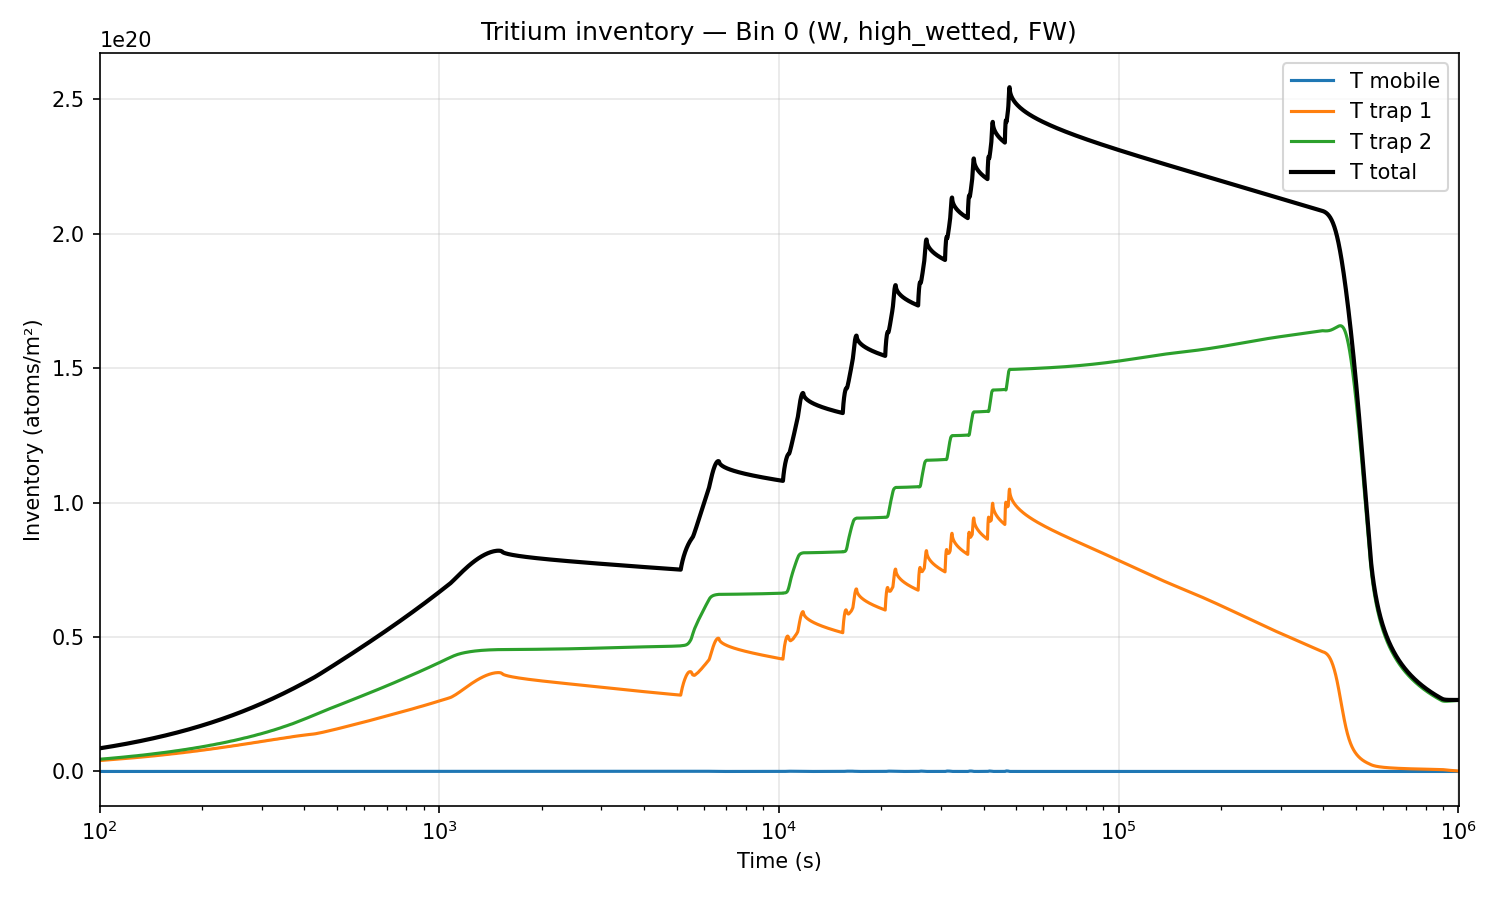
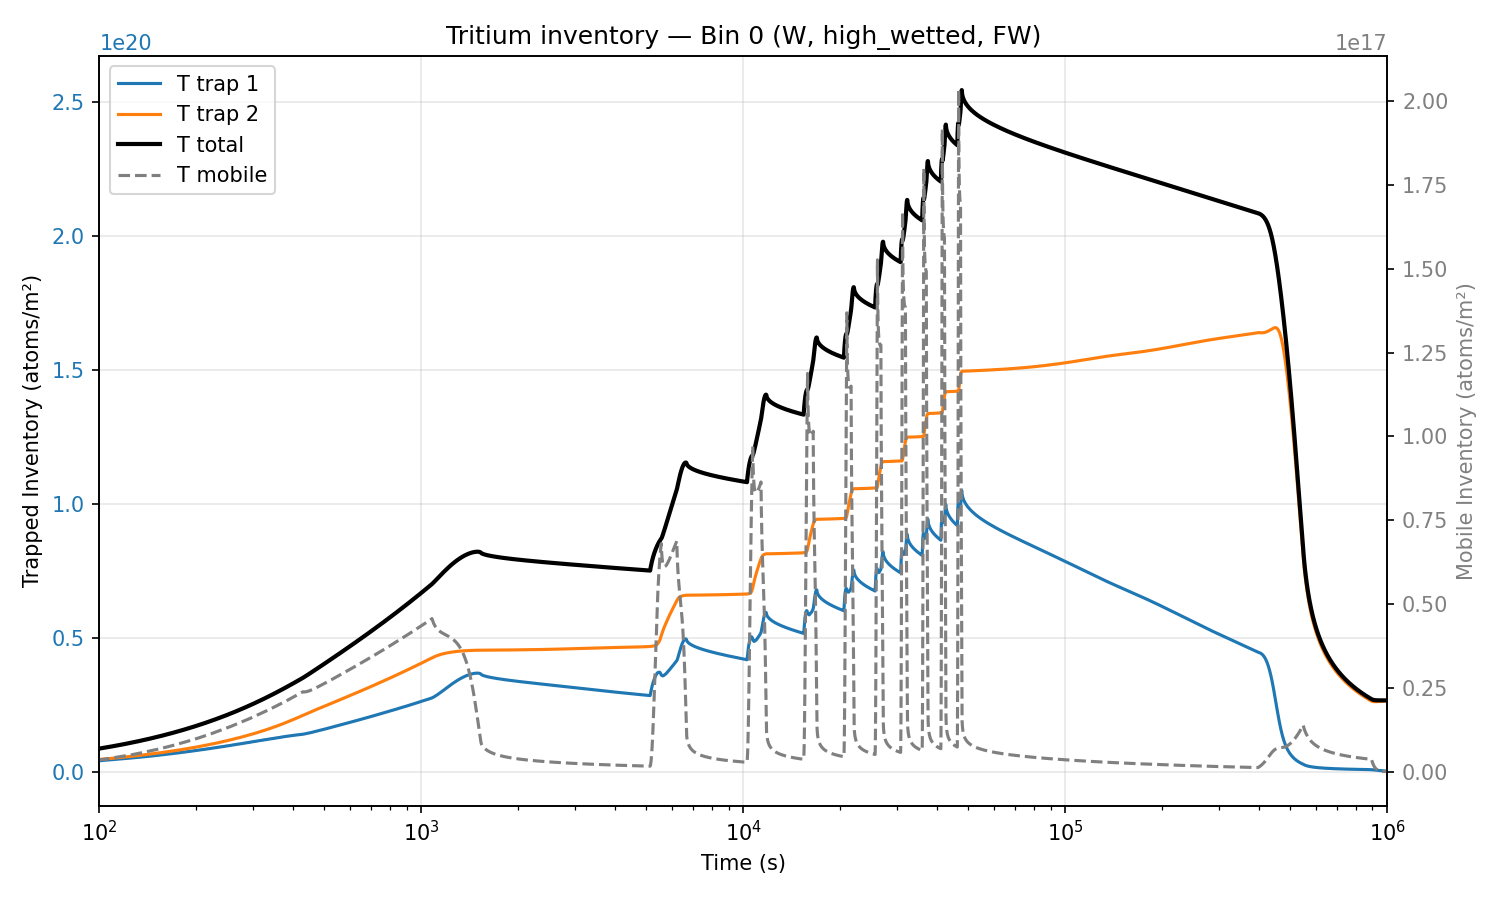
updated plot

diff --git a/example/plot_T_inventory.py b/example/plot_T_inventory.py
@@ -13,19 +13,30 @@ T_trap2 = np.array(data["trap2_T"]["data"])
 T_total = T_mobile + T_trap1 + T_trap2
 
 fig, ax = plt.subplots(figsize=(10, 6))
-ax.plot(t, T_mobile, label="T mobile")
+
+# Primary axis: trapped T and total
 ax.plot(t, T_trap1, label="T trap 1")
 ax.plot(t, T_trap2, label="T trap 2")
 ax.plot(t, T_total, linewidth=2, label="T total", color="black")
-
 ax.set_xlabel("Time (s)")
 ax.set_xscale("log")
 ax.set_xlim(1e2, t[-1])
-ax.set_ylabel("Inventory (atoms/m²)")
+ax.set_ylabel("Trapped Inventory (atoms/m²)")
 ax.set_title("Tritium inventory — Bin 0 (W, high_wetted, FW)")
-ax.legend()
+ax.tick_params(axis="y", labelcolor="C0")
 ax.grid(True, alpha=0.3)
 ax.set_xlim(0, t[-1])
+
+# Secondary axis: mobile T
+ax2 = ax.twinx()
+ax2.plot(t, T_mobile, label="T mobile", color="gray", linestyle="--")
+ax2.set_ylabel("Mobile Inventory (atoms/m²)", color="gray")
+ax2.tick_params(axis="y", labelcolor="gray")
+
+# Combined legend
+lines1, labels1 = ax.get_legend_handles_labels()
+lines2, labels2 = ax2.get_legend_handles_labels()
+ax.legend(lines1 + lines2, labels1 + labels2, loc="upper left")
 
 plt.tight_layout()
 plt.savefig("results_bin0_W_high_wetted/T_inventory.png", dpi=150)
